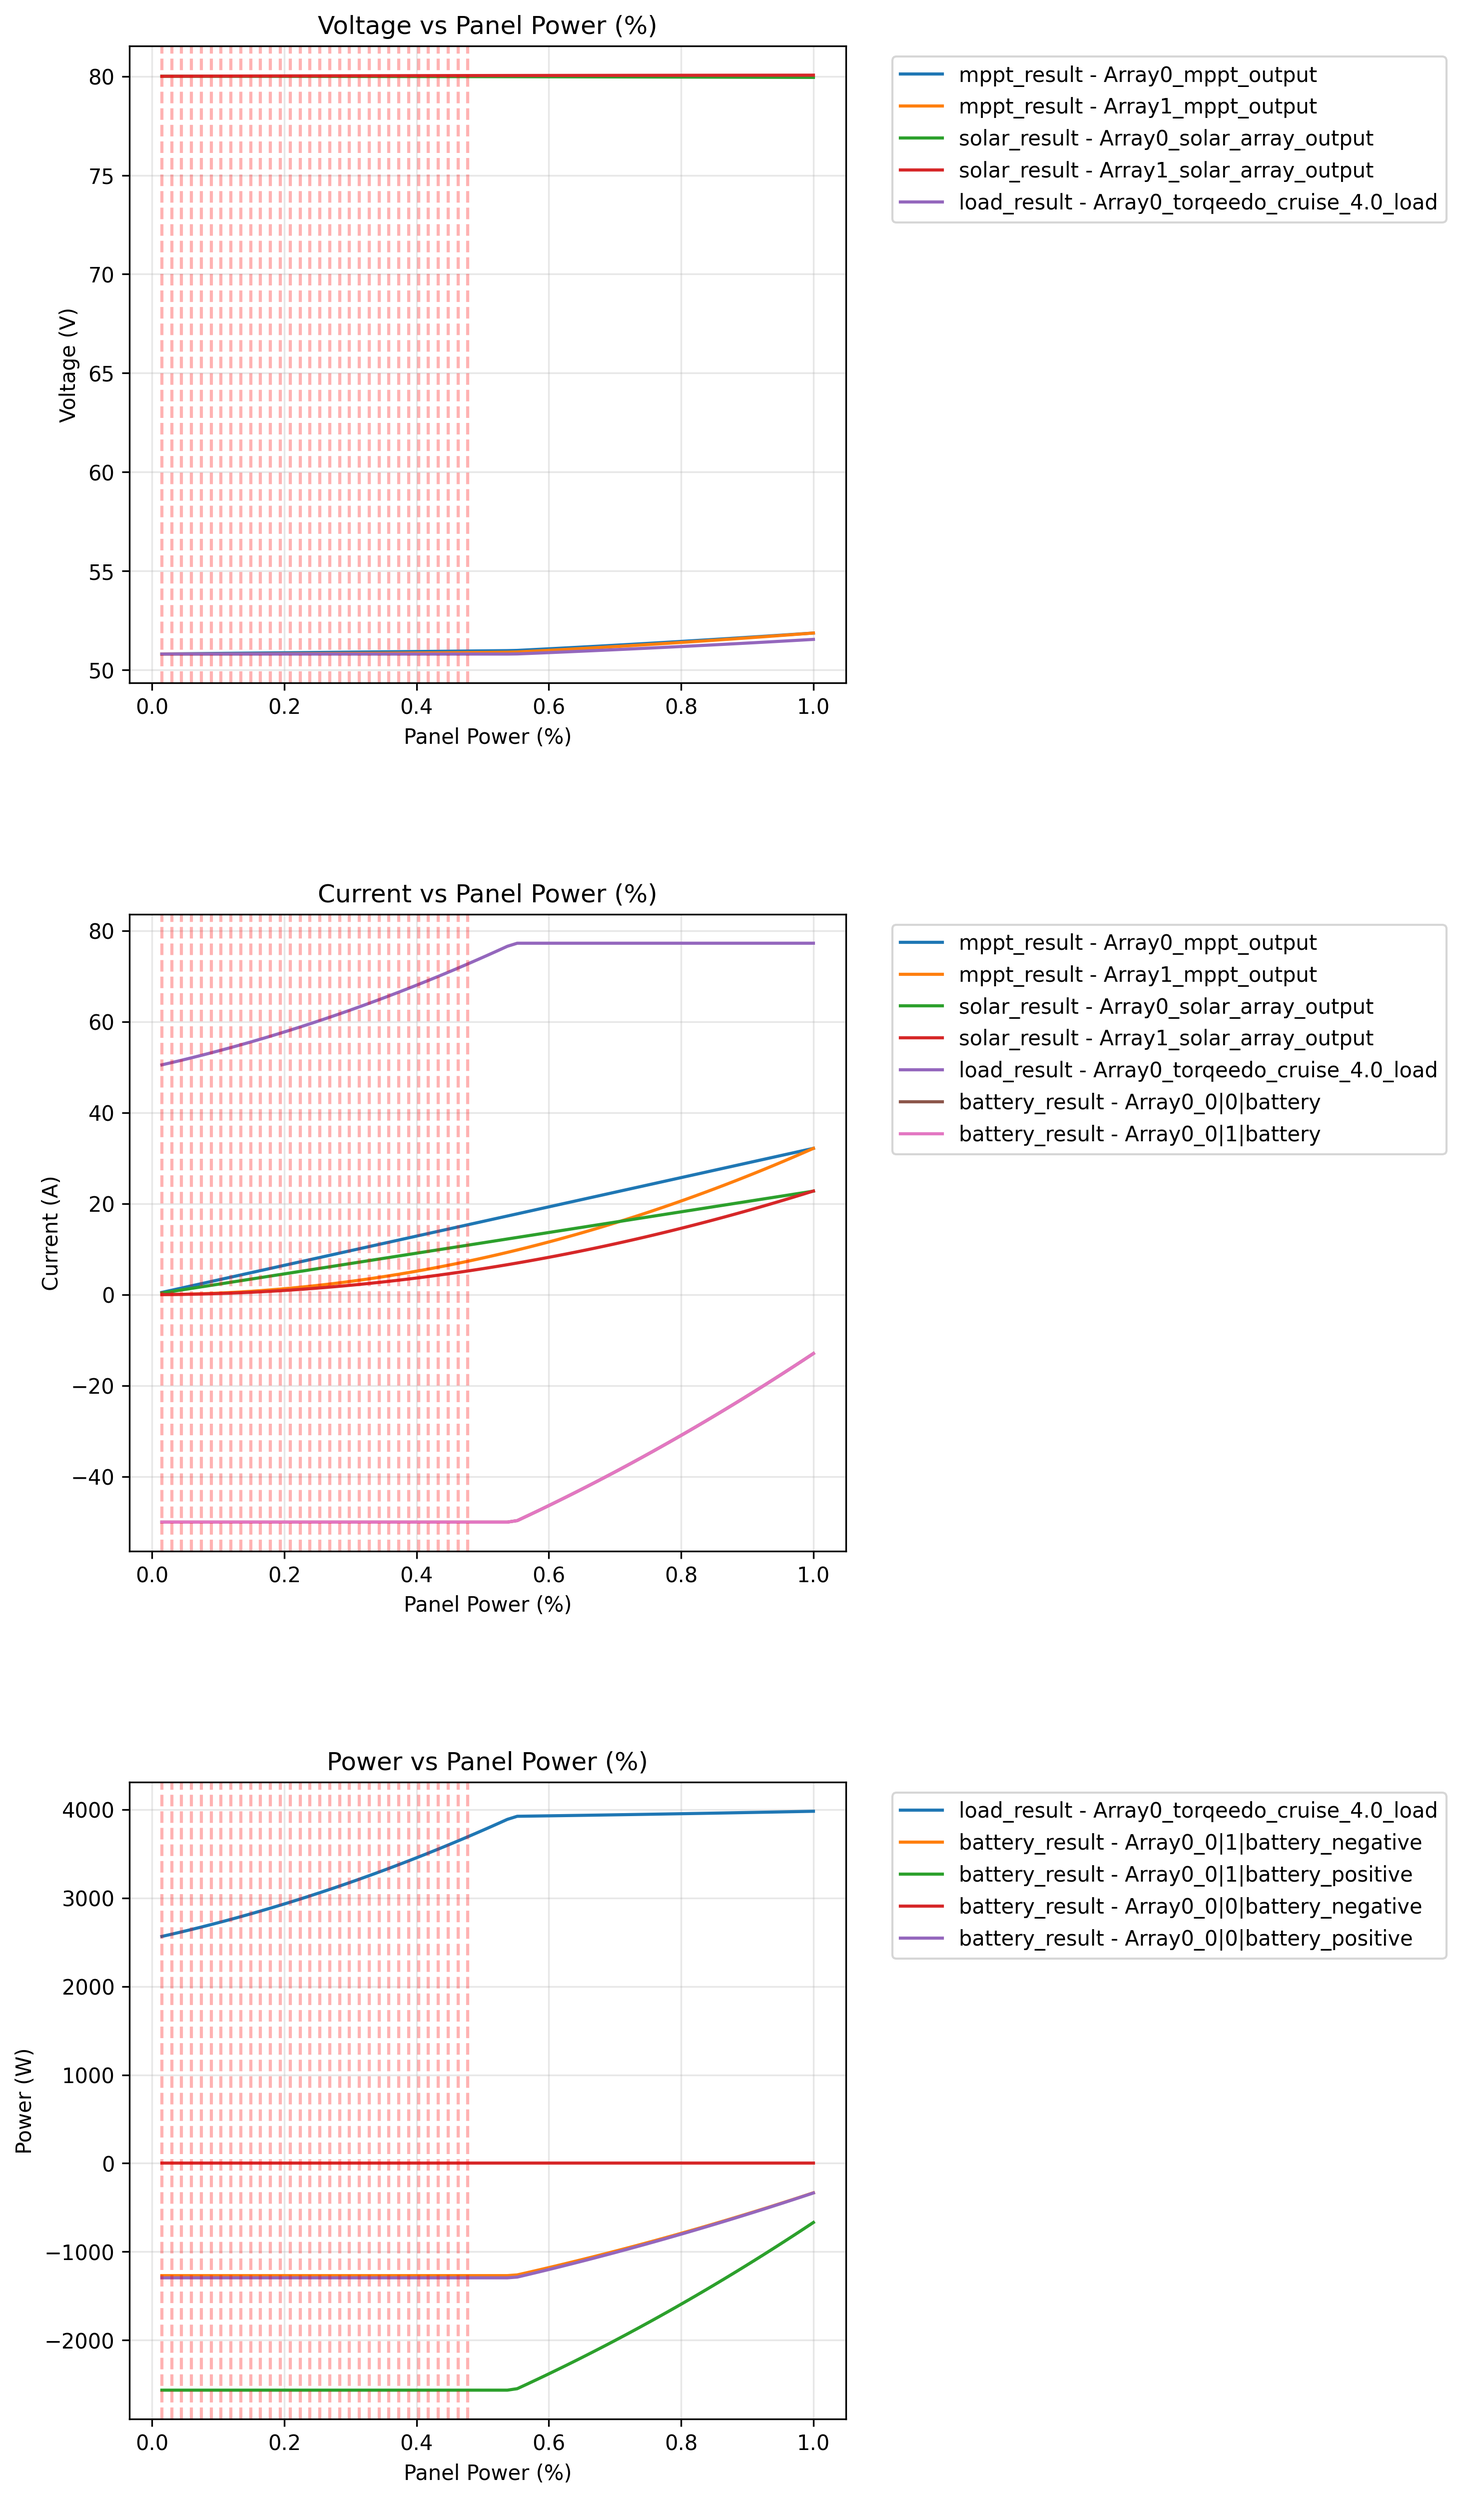
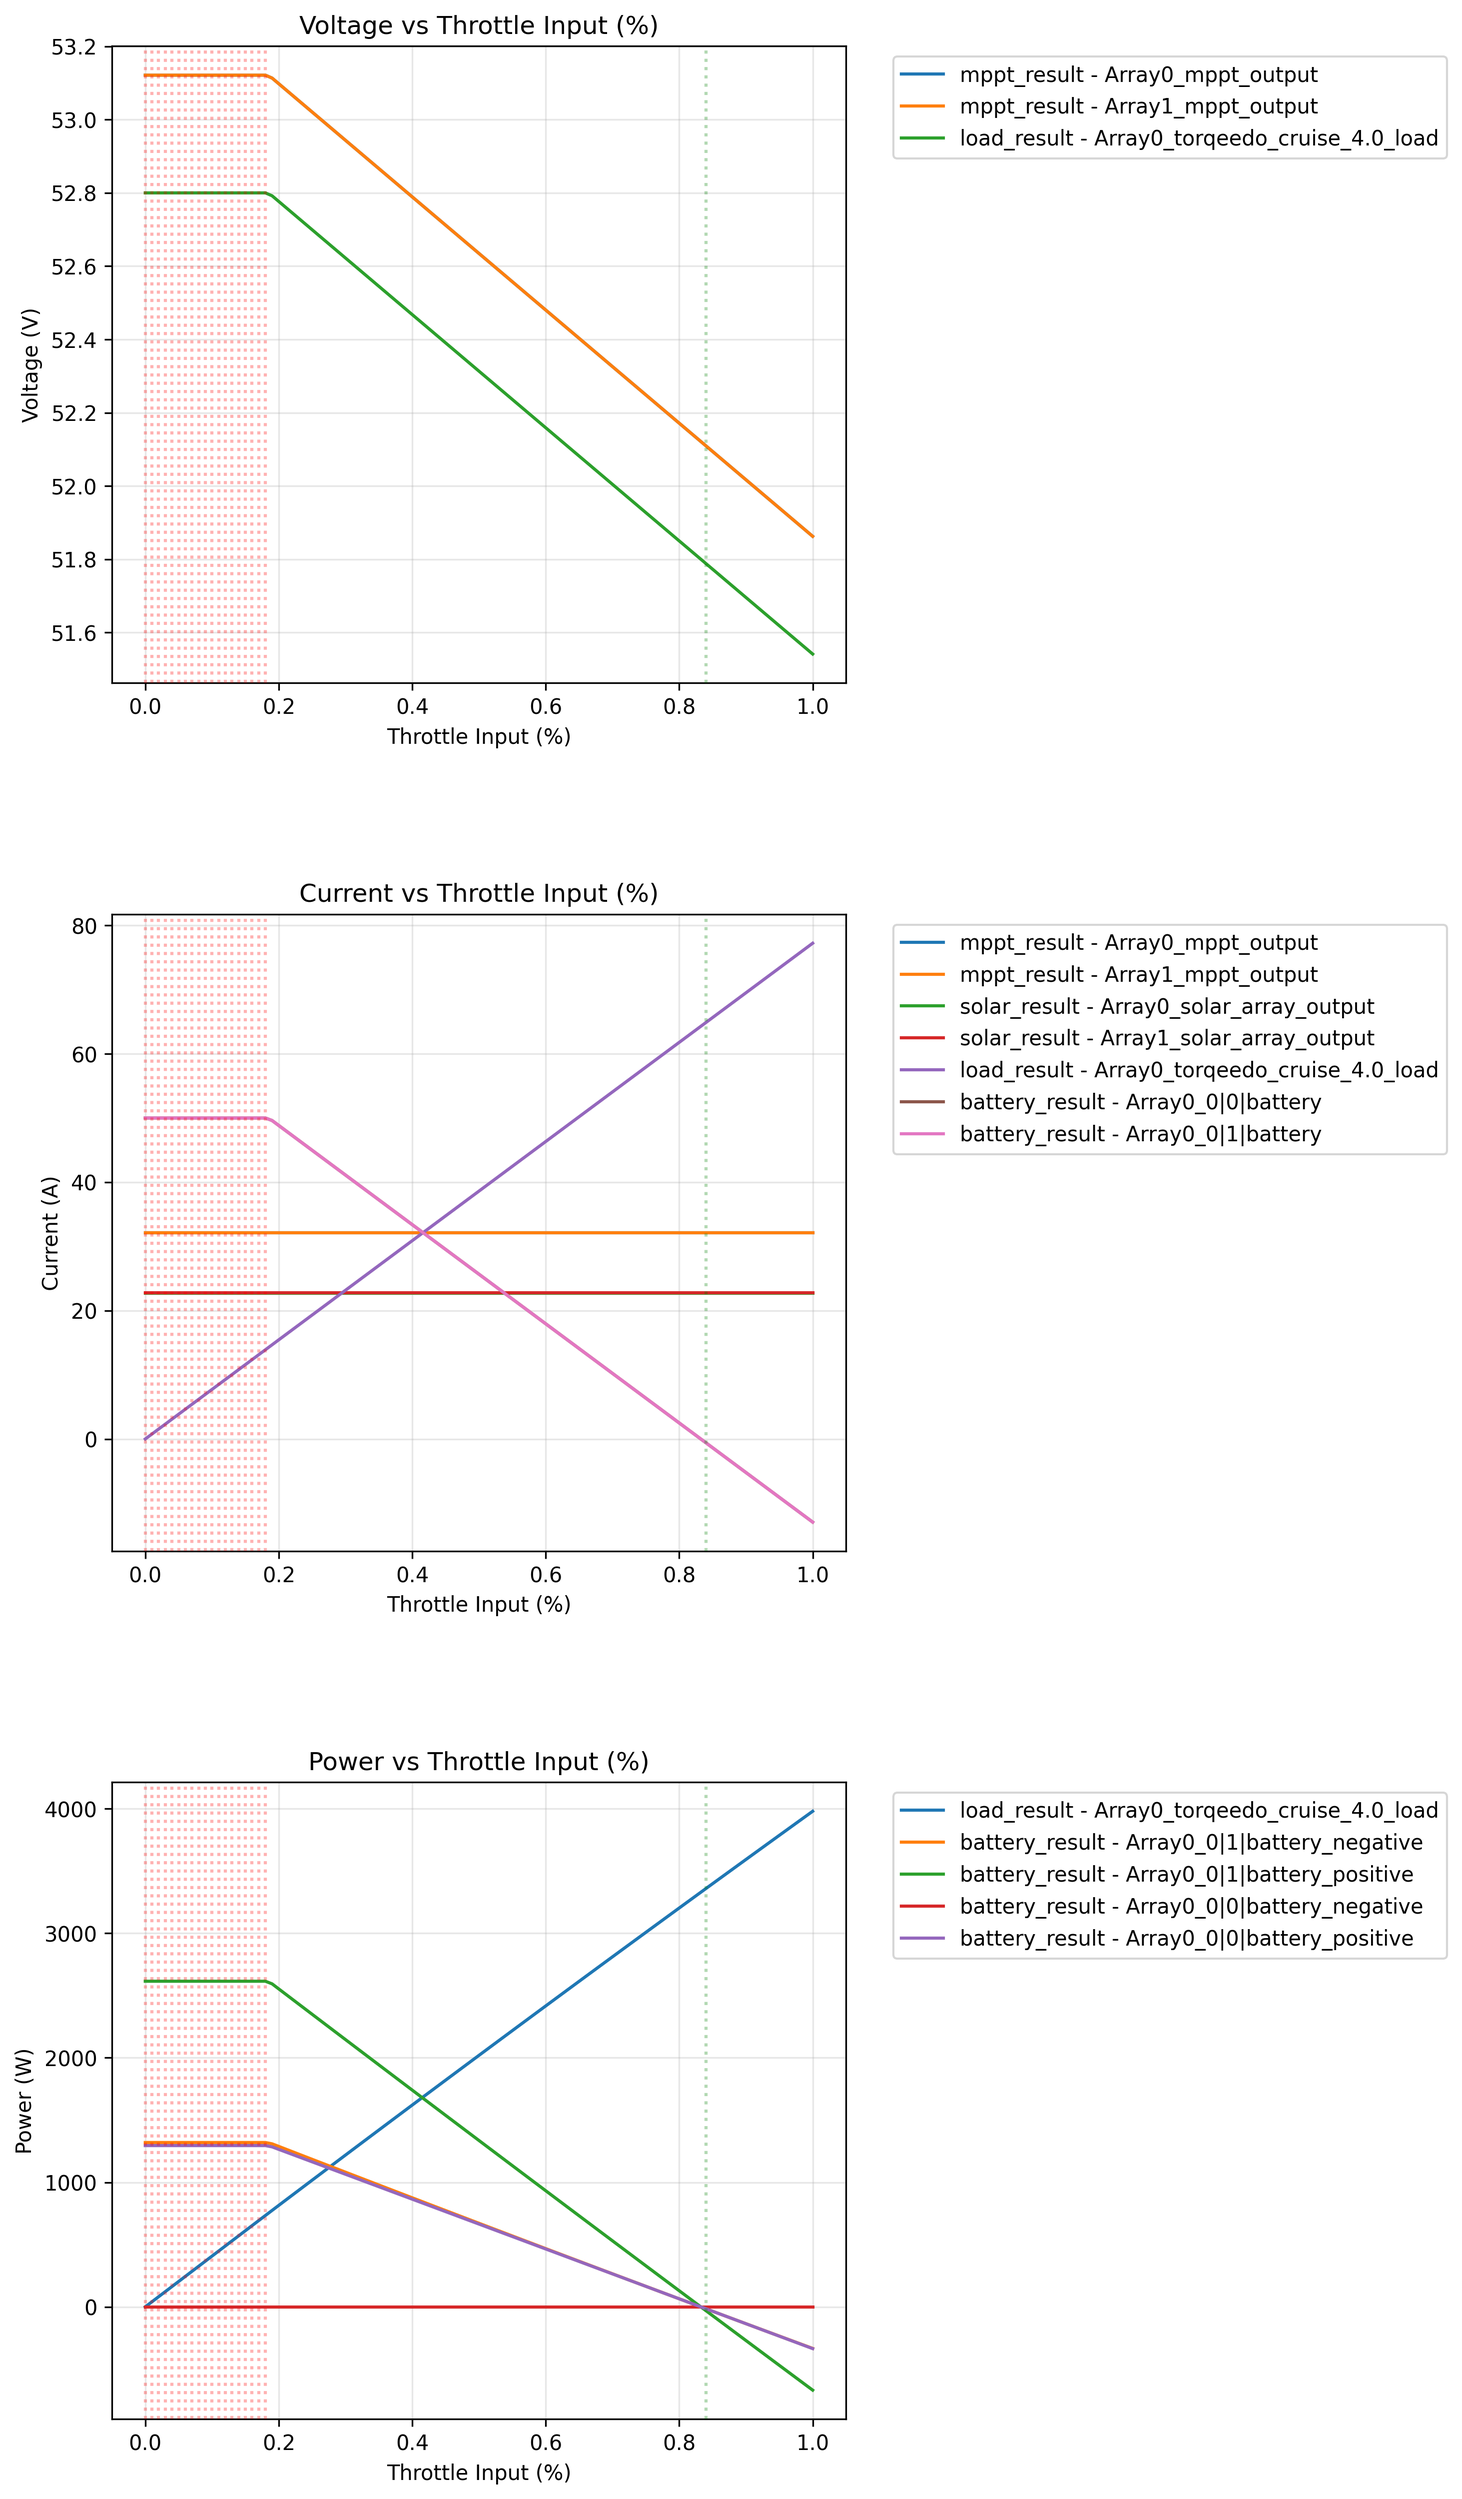
Seperate simulation graph save

diff --git a/PySpice/sweep_graph_generation.py b/PySpice/sweep_graph_generation.py
@@ -3,10 +3,12 @@ import matplotlib.pyplot as plt
 import numpy as np
 import os
 from typing import List, Dict
-from configurations.constants import EPISON
 
 
 MARKER_SIZE = 0
+MARKER_STYLE = 'o'  #'o', 's', '^', 'D', '*', 'P', 'X', etc.
+DOTTED_STYLE = ":"     #'-', '--', '-.', ':', 'None', ' ', '', 'solid', 'dashed', 'dashdot', 'dotted'
+
 IMG_FILE_NAME = "sweep_simulation_results.png"
 WARNING_FILE_NAME = "sweep_simulation_warnings.json"
 
@@ -60,7 +62,7 @@ def generate_graph(results: list, x_axis: list, x_label: str = "",
             voltages = extract_traces(results, category, 'voltage')
             
             for label, values in voltages.items():
-                ax.plot(x_axis, values, marker='o', markersize=MARKER_SIZE, 
+                ax.plot(x_axis, values, marker=MARKER_STYLE, markersize=MARKER_SIZE, 
                        label=f"{category} - {label}", 
                        color=colors[color_idx % len(colors)])
                 color_idx += 1
@@ -71,17 +73,8 @@ def generate_graph(results: list, x_axis: list, x_label: str = "",
         ax.legend(bbox_to_anchor=(1.05, 1), loc='upper left')
         ax.grid(True, alpha=0.3)
         
-        # Add warning markers
-        if warning_points:
-            warning_x = [wp['x'] for wp in warning_points]
-            ax.axvline(x=warning_x[0] if warning_x else 0, color='red', 
-                      linestyle='--', alpha=0, label='_nolegend_')
-            for wp in warning_points:
-                ax.axvline(x=wp['x'], color='red', linestyle='--', alpha=0.3)
-                
-        # Add equilibrium markers
-        if equilibrium_points:
-            ax.axvline(x=equilibrium_points[len(equilibrium_points)//2], color='green', linestyle='--', alpha=0.3)
+        draw_warning_points(warning_points, ax)
+        draw_equilibrium_points(equilibrium_points, ax)
         
         plot_idx += 1
     
@@ -94,7 +87,7 @@ def generate_graph(results: list, x_axis: list, x_label: str = "",
             currents = extract_traces(results, category, 'current')
             
             for label, values in currents.items():
-                ax.plot(x_axis, values, marker='o', markersize=MARKER_SIZE,
+                ax.plot(x_axis, values, marker=MARKER_STYLE, markersize=MARKER_SIZE,
                        label=f"{category} - {label}",
                        color=colors[color_idx % len(colors)])
                 color_idx += 1
@@ -105,14 +98,8 @@ def generate_graph(results: list, x_axis: list, x_label: str = "",
         ax.legend(bbox_to_anchor=(1.05, 1), loc='upper left')
         ax.grid(True, alpha=0.3)
         
-        # Add warning markers
-        if warning_points:
-            for wp in warning_points:
-                ax.axvline(x=wp['x'], color='red', linestyle='--', alpha=0.3)
-        
-        # Add equilibrium markers
-        if equilibrium_points:
-            ax.axvline(x=equilibrium_points[len(equilibrium_points)//2], color='green', linestyle='--', alpha=0.3)       
+        draw_warning_points(warning_points, ax)
+        draw_equilibrium_points(equilibrium_points, ax) 
         
         plot_idx += 1
     
@@ -125,7 +112,7 @@ def generate_graph(results: list, x_axis: list, x_label: str = "",
             power_traces = extract_power_traces(results, category)
             
             for label, values in power_traces.items():
-                ax.plot(x_axis, values, marker='o', markersize=MARKER_SIZE,
+                ax.plot(x_axis, values, marker=MARKER_STYLE, markersize=MARKER_SIZE,
                        label=f"{category} - {label}",
                        color=colors[color_idx % len(colors)])
                 color_idx += 1
@@ -136,30 +123,36 @@ def generate_graph(results: list, x_axis: list, x_label: str = "",
         ax.legend(bbox_to_anchor=(1.05, 1), loc='upper left')
         ax.grid(True, alpha=0.3)
         
-        # Add warning markers
-        if warning_points:
-            for wp in warning_points:
-                ax.axvline(x=wp['x'], color='red', linestyle='--', alpha=0.3)
+        draw_warning_points(warning_points, ax)
+        draw_equilibrium_points(equilibrium_points, ax)
 
-        # Add equilibrium markers
-        if equilibrium_points:
-            ax.axvline(x=equilibrium_points[len(equilibrium_points)//2], color='green', linestyle='--', alpha=0.3)
-        
-        
-    """ # Add warning text box positioned below all graphs
-    if warning_points:
-        warning_text = "Warnings:\n"
-        for wp in warning_points:
-            warning_text += f"x={wp['x']}: {', '.join(wp['warnings'])}\n"
-        
-        fig.text(0.1, 0.02, warning_text, 
-                fontsize=8, color='red', 
-                bbox=dict(boxstyle='round', facecolor='wheat', alpha=0.5),
-                verticalalignment='bottom') """
     
     plt.tight_layout(rect=[0, 0.05, 1, 1])  # Leave space at bottom for warnings
-    
-    
+
+    for i, ax in enumerate(axes):
+        fig_single, ax_single = plt.subplots()
+
+        for line in ax.get_lines():
+            x = line.get_xdata()
+            y = line.get_ydata()
+
+            if len(x) <= 2 or len(y) <= 2:
+                continue
+            
+            ax_single.plot(x, y, label=line.get_label())
+            
+        draw_warning_points(warning_points, ax_single)
+        draw_equilibrium_points(equilibrium_points, ax_single)
+        
+        color_idx += 1
+
+        ax_single.set_title(ax.get_title())
+        ax_single.set_xlabel(ax.get_xlabel())
+        ax_single.set_ylabel(ax.get_ylabel())
+
+        save_file = os.path.join(save_path, f"{ax.get_title()}.png")
+        fig_single.savefig(save_file, bbox_inches="tight")
+        plt.close(fig_single)
     
     if save_path:
         with open(os.path.join(save_path, WARNING_FILE_NAME), 'w') as f:
@@ -172,7 +165,19 @@ def generate_graph(results: list, x_axis: list, x_label: str = "",
     if display_graph:
         plt.show()     
 
-
+def draw_warning_points(warning_points: list, ax):
+    if warning_points:
+        for wp in warning_points:
+            ax.axvline(x=wp['x'], color='red', linestyle=DOTTED_STYLE, alpha=0.3, zorder=5)
+            ax.relim()
+            ax.autoscale_view()
+            
+def draw_equilibrium_points(equilibrium_points: list, ax):
+    if equilibrium_points:
+        ax.axvline(x=equilibrium_points[len(equilibrium_points)//2], color='green', linestyle=DOTTED_STYLE, alpha=0.3, zorder=5)
+        ax.relim()
+        ax.autoscale_view()
+        
 def extract_traces(results: list, category: str, data_type: str) -> Dict[str, List[float]]:
     """
     Extract voltage or current traces from results.

diff --git a/PySpice/__main__.py b/PySpice/__main__.py
@@ -30,8 +30,8 @@ SHOW_NETLIST        = 0
 IGNORE_ERROR        = 1
 START_SIMULATION    = 1
 SIMULATION_LOGGING  = 0
-SIMULATION_TYPE     = 2     # 0: operating_point / 1:sweep throttle / 2: sweep panel power
-SHOW_SWEEP_PLOT     = 0
+SIMULATION_TYPE     = 1     # 0: operating_point / 1:sweep throttle / 2: sweep panel power
+SHOW_SWEEP_PLOT     = 1
 
 SHOW_ERRORS         = 0
 SHOW_WARNINGS       = 0
@@ -286,7 +286,7 @@ if __name__ == "__main__":
                 analysis, result = build_circuit_from_json(CONFIG_FILE, throttle)
                 results.append(result)
             generate_graph(results, throttle_range, x_label="Throttle Input (%)",
-                    voltage_display_choice=['mppt_result', 'solar_result', 'load_result'],
+                    voltage_display_choice=['mppt_result', 'load_result'],
                     current_display_choice=['mppt_result', 'solar_result', 'load_result', 'battery_result'],
                     power_display_choice=['load_result', 'battery_result'],
                     display_graph=SHOW_SWEEP_PLOT,
@@ -304,7 +304,7 @@ if __name__ == "__main__":
                     panel_power_range = panel_power_range[:panel_power_range.index(panel_power)]
                     break
             generate_graph(results, panel_power_range, x_label="Panel Power (%)",
-                    voltage_display_choice=['mppt_result', 'solar_result', 'load_result'],
+                    voltage_display_choice=['mppt_result', 'load_result'],
                     current_display_choice=['mppt_result', 'solar_result', 'load_result', 'battery_result'],
                     power_display_choice=['load_result', 'battery_result', 'solar_result'],
                     display_graph=SHOW_SWEEP_PLOT,

diff --git a/PySpice/result_checker.py b/PySpice/result_checker.py
@@ -1,4 +1,4 @@
-from configurations.constants import EPISON, POWER_MISMATCH_TOLERANCE_PERCENTAGE
+from configurations.constants import EPSILON, POWER_MISMATCH_TOLERANCE_PERCENTAGE
 
 
 def cross_check_result(analysis, component_object, result):
@@ -23,13 +23,13 @@ def cross_check_result(analysis, component_object, result):
         solar_output_voltage = solar_data[i]["voltage"]["solar_array_output"]
         solar_output_current = solar_data[i]["current"]["solar_array_output"]
         input_power = solar_output_voltage * solar_output_current * component_object["mppt"][i].get_efficiency()
-        if output_curr_limit - actual_curr_output < EPISON:
+        if output_curr_limit - actual_curr_output < EPSILON:
             result["warning"]["data"].append(f"(Array {i}) Excess power input into MPPT due to {output_curr_limit} A output limit. \
 Total Input Power: {input_power:.2f} W, restricted to: {actual_voltage_output*actual_curr_output:.2f} W")
     
     # Check battery charge
     excess_current = load_balancer['data'][0]["current"]["balancing_load"]
-    if excess_current > EPISON:
+    if excess_current > EPSILON:
         result["warning"]["data"].append(f"Battery is overcharged by {excess_current} A")
         
     # Check battery discharge

diff --git a/PySpice/components/solar_panel_array.py b/PySpice/components/solar_panel_array.py
@@ -1,11 +1,11 @@
-from configurations.constants import BARF, BARE, GROUNDING_RESISTANCE, WIRE_RESISTANCE, EPISON
+from configurations.constants import BARF, BARE, GROUNDING_RESISTANCE, WIRE_RESISTANCE, EPSILON
 
 class Solar_Array:
     def __init__(self, circuit, components, power, voltage, in_series, in_parallel):
         self.circuit = circuit
         self.PANEL_IN_PARALLEL = in_parallel
         self.PANEL_IN_SERIES = in_series
-        self.PANEL_CURRENT = max(EPISON, power / voltage)
+        self.PANEL_CURRENT = max(EPSILON, power / voltage)
         self.PANEL_INTERNAL_R = voltage / self.PANEL_CURRENT
         self.PANEL_ARRAY_TOTAL_VOLTAGE = self.PANEL_IN_SERIES * voltage
         self.PANEL_ARRAY_TOTAL_CURRENT = self.PANEL_IN_PARALLEL * self.PANEL_CURRENT

diff --git a/PySpice/configurations/constants.py b/PySpice/configurations/constants.py
@@ -6,4 +6,4 @@ RAWSPICE_ITERATIONS = 1e6
 MPPT_BATTERY_VOLTAGE_BUFFER = 2.0
 VOLTAGE_MISMATCH_TOLERANCE = 5.0
 POWER_MISMATCH_TOLERANCE_PERCENTAGE = 1.0
-EPISON = 1e-12
+EPSILON = 1e-12
